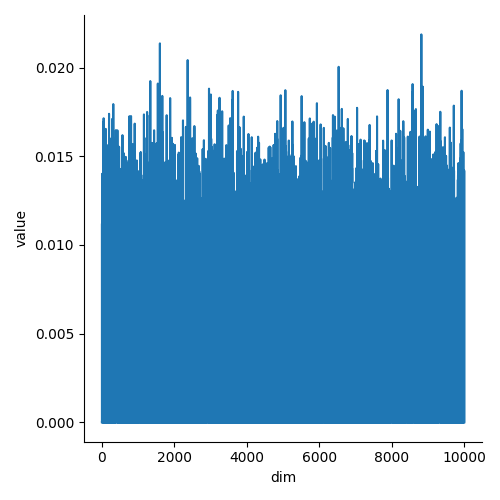
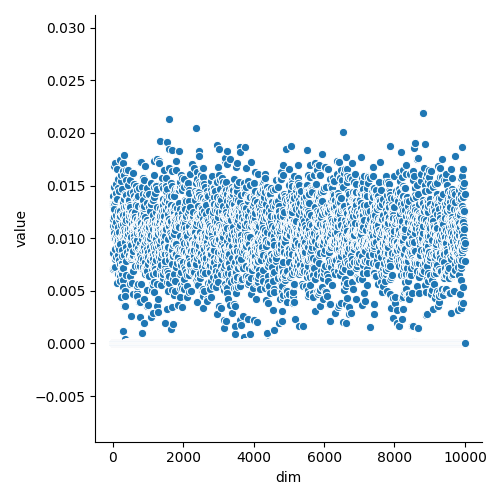
add score image

diff --git a/visual/make_score.py b/visual/make_score.py
@@ -1,0 +1,46 @@
+import torch
+import seaborn as sns
+from matplotlib import pyplot as plt
+import numpy as np
+import pandas as pd
+
+def getRepr(fname):
+    data = []
+    fp = open(fname + ".info", 'r')
+    for line in fp:
+        data.append(line)
+
+    rep = np.fromstring(data[1].rstrip(), dtype=float, sep=' ')
+    
+    return rep[1:]
+    
+mode="all"
+
+doc_fname ="../result/epath.doc."+mode
+q_fname ="../result/epath.query."+mode
+#1. read repr doc, query
+doc_repr = getRepr(doc_fname)
+q_repr = getRepr(q_fname)
+
+#2. compute score
+dot = doc_repr * q_repr
+score = np.sum(dot)
+
+print('score = ', score)
+
+sorted_ind = np.flip(np.argsort(dot))
+k=0
+ssum=0
+for ind in sorted_ind:
+    ssum += dot[ind]
+    print(ind, '=', dot[ind], '\t', int(ssum / score * 10000)/100)
+    k += 1
+    if(k > 10): break
+
+
+#3. draw graph
+plt.figure(figsize=(10, 10))
+df = pd.DataFrame(dict(dim=np.arange(10000), value=doc_repr))
+g = sns.relplot(x='dim', y='value', data=df)
+
+plt.savefig("repr.png")
